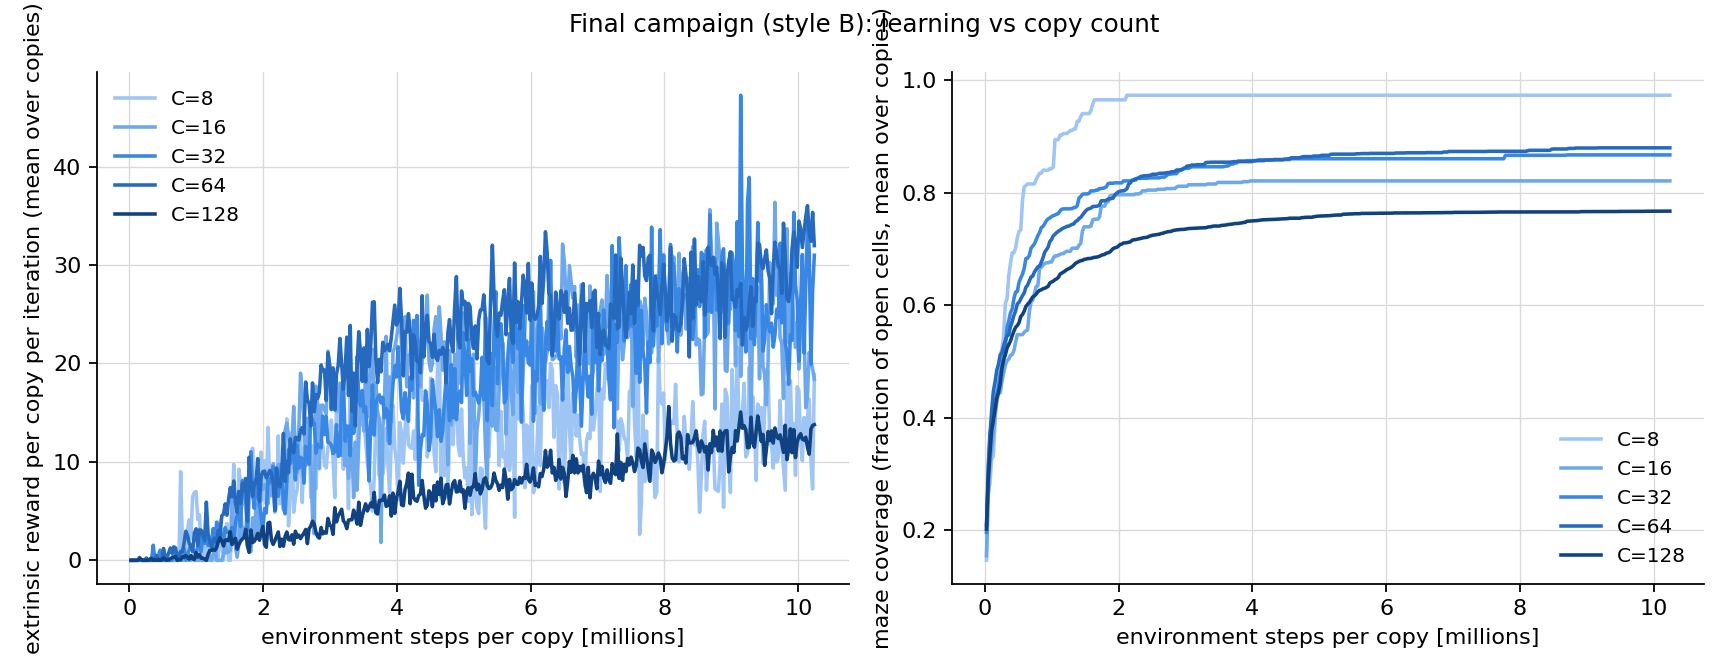
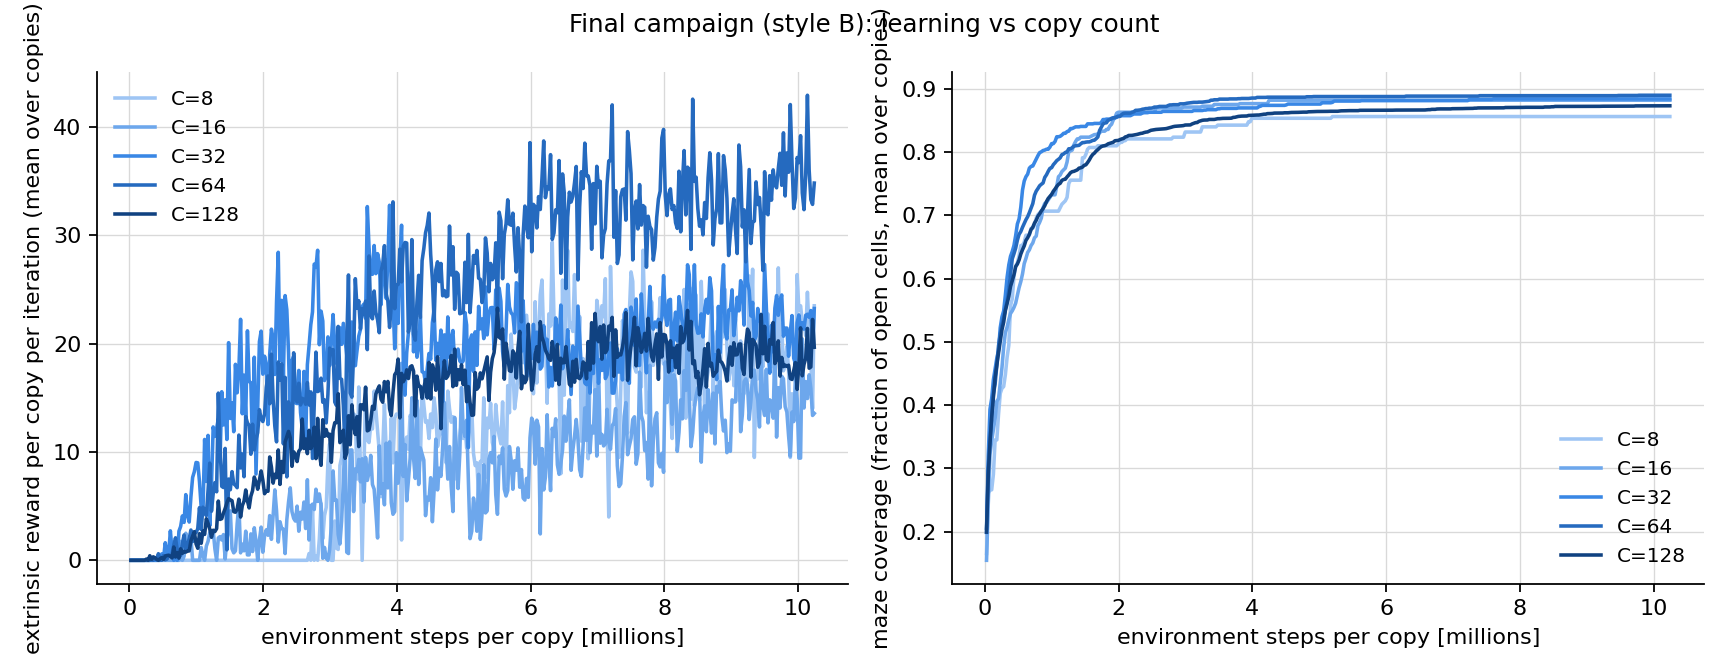
round 2 campaign + large-copy scaling + final unified report covering all three rounds
Round-2 campaign (both styles x C=8..128, 10.24M steps/copy): 8.19e6 env-steps/s at C=128
style A, 3.1x the round-1 campaign. Large-copy scaling re-measured: saturates at 7.8e6 from
~8192 copies, ceiling now 16384 (round 2 trades memory for speed; confirmed as real demand,
not fragmentation). Report reorganized around the three rounds with both campaigns, the
sweep, and the corrected cuda-env pairing.

Claude-Session: https://claude.ai/code/session_015j6YeWp1Vn9h1zKwtPG3mG

diff --git a/09_parallelization/report/2026-08-15-pointmaze-gpu-parallelization/code/make_report.py b/09_parallelization/report/2026-08-15-pointmaze-gpu-parallelization/code/make_report.py
@@ -276,10 +276,12 @@ cost the same as training those copies at one rate.
     return md
 
 
-def campaign_records():
-    """The final-campaign per-count JSONs, {(style, C): record}."""
+def campaign_records(round2=True):
+    """The final-campaign per-count JSONs, {(style, C): record}, for one round's campaign."""
+    pattern = "2026-*final_round2*/data/copies_*.json" if round2 else \
+              "2026-08-15-02-56_final*/data/copies_*.json"
     out = {}
-    for p in RUNS.glob("2026-*final*/data/copies_*.json"):
+    for p in RUNS.glob(pattern):
         r = json.loads(p.read_text())
         out[(r["style"], r["n_copies"])] = r
     return out
@@ -527,11 +529,21 @@ The task's two questions, answered by measurement (style B, T=128, N=4, final co
         else:
             b = tot = per = "—"
         md += f"| {c} | {a} | {b} | {tot} | {per} |\n"
-    md += """| 65536 | out of memory during graph build | — | — | — |
+    md += """
+**How many copies fit, and the trade the second round made.** Round one reached 32,768 copies
+and ran out of memory at 65,536; round two runs out at 32,768. That is not a regression to fix
+by accident — it is the price of the speed: hoisting the per-step work into wide passes, and
+caching the frozen RND target's features for the update phase, both hold more data at once
+(the cached features alone are 256 KB per copy). The ceiling moved from 32,768 copies to
+16,384 while every copy count up to there got about 1.8x faster. A run that needs the extra
+copies more than the speed can set `compile_post=False` and skip the hoist to get the round-one
+memory profile back. The ceiling is genuine demand rather than fragmentation: retrying 32,768
+copies with `PYTORCH_CUDA_ALLOC_CONF=expandable_segments:True` reduced the failing allocation
+from 32 GiB to 8 GiB but still ran out.
 
-**Maximum copies that fit: 32,768** (95 GB H100, this configuration). Torch total
-throughput saturates near 5.6e6 env-steps/s from ~8,192 copies. The jax trainer saturates
-near 1.9e7 (style A) / 9.1e6 (style B) around C=2,048-4,096.
+Round-two total throughput saturates near 7.8e6 environment steps per second from about 8,192
+copies (round one: 5.6e6). The jax trainer saturates near 1.9e7 (style A) / 9.1e6 (style B)
+around 2,048-4,096 copies.
 
 ![copy scaling](figures/copy_scaling.png)
 """
@@ -667,11 +679,15 @@ def sec_campaign():
 
 20,000 iterations per configuration = 10.24M environment steps per copy; PointMaze Large,
 sparse goal, run-6 setup. Every copy is an independent seed with its own networks,
-environments, statistics, and optimizer.
+environments, statistics, and optimizer. The campaign was run twice — once on the round-1 code
+and again on the round-2 code — so the improvement is visible on the deliverable itself and not
+only on the benchmarks. The table reports the round-2 run, with the round-1 throughput beside
+it for comparison.
 
-| style | copies | wall time [s] | total env-steps/s | env-steps/s per copy | copies at goal, late* | copies at goal, ever* | coverage mean | peak VRAM [MB] |
-|---|---|---|---|---|---|---|---|---|
+| style | copies | wall time [s] | total env-steps/s | round-1 rate | env-steps/s per copy | copies at goal, late* | copies at goal, ever* | coverage mean | peak VRAM [MB] |
+|---|---|---|---|---|---|---|---|---|---|
 """
+    r1recs = campaign_records(round2=False)
     for (style, c) in sorted(recs, key=lambda k: (k[0], k[1])):
         r = recs[(style, c)]
         hist = r["history"]
@@ -681,11 +697,22 @@ environments, statistics, and optimizer.
         solved_late = count(late) if late else 0
         solved_ever = count(hist) if hist else 0
         cov = sum(r["final_coverage_per_copy"]) / c
+        r1 = r1recs.get((style, c))
         md += (f"| {style} | {c} | {r['train_seconds']:.0f} | "
-               f"{sci(r['env_steps_per_sec'])} | {sci(r['env_steps_per_sec'] / c)} | "
+               f"{sci(r['env_steps_per_sec'])} | "
+               f"{sci(r1['env_steps_per_sec']) if r1 else '—'} | "
+               f"{sci(r['env_steps_per_sec'] / c)} | "
                f"{solved_late}/{c} | {solved_ever}/{c} | {cov:.3f} | "
                f"{r['peak_vram_mb']:.0f} |\n")
     md += """
+The round-2 campaign also shows more copies reaching the goal and slightly higher coverage than
+the round-1 one. That is NOT an effect of the optimization: the algorithm is unchanged and every
+round-2 change was verified to compute the same function to within float32 rounding. What those
+tiny differences do is send the runs down different trajectories, and on a sparse-goal task the
+per-copy outcome is close to all-or-nothing, so the aggregate moves by more than one might
+expect. Treat the two campaigns as two samples of the same procedure, and read the throughput
+columns — not the goal columns — as the round's result.
+
 *Both goal columns count copies that scored a positive extrinsic reward in a SAMPLED
 iteration: "late" over the final 10% of samples, "ever" over all of them. Progress is sampled
 every 50 iterations (400 samples of 20,000), so a copy that reached the goal only in an

diff --git a/09_parallelization/report/2026-08-15-pointmaze-gpu-parallelization/report.md b/09_parallelization/report/2026-08-15-pointmaze-gpu-parallelization/report.md
@@ -141,11 +141,21 @@ The task's two questions, answered by measurement (style B, T=128, N=4, final co
 | 8192 | 761.6 | — | — | — |
 | 16384 | 1499.6 | — | — | — |
 | 32768 | 3009.6 | — | — | — |
-| 65536 | out of memory during graph build | — | — | — |
 
-**Maximum copies that fit: 32,768** (95 GB H100, this configuration). Torch total
-throughput saturates near 5.6e6 env-steps/s from ~8,192 copies. The jax trainer saturates
-near 1.9e7 (style A) / 9.1e6 (style B) around C=2,048-4,096.
+**How many copies fit, and the trade the second round made.** Round one reached 32,768 copies
+and ran out of memory at 65,536; round two runs out at 32,768. That is not a regression to fix
+by accident — it is the price of the speed: hoisting the per-step work into wide passes, and
+caching the frozen RND target's features for the update phase, both hold more data at once
+(the cached features alone are 256 KB per copy). The ceiling moved from 32,768 copies to
+16,384 while every copy count up to there got about 1.8x faster. A run that needs the extra
+copies more than the speed can set `compile_post=False` and skip the hoist to get the round-one
+memory profile back. The ceiling is genuine demand rather than fragmentation: retrying 32,768
+copies with `PYTORCH_CUDA_ALLOC_CONF=expandable_segments:True` reduced the failing allocation
+from 32 GiB to 8 GiB but still ran out.
+
+Round-two total throughput saturates near 7.8e6 environment steps per second from about 8,192
+copies (round one: 5.6e6). The jax trainer saturates near 1.9e7 (style A) / 9.1e6 (style B)
+around 2,048-4,096 copies.
 
 ![copy scaling](figures/copy_scaling.png)
 
@@ -213,11 +223,11 @@ measured in the campaign itself):
 
 | copies C | before, style B | after, style B | after, style A |
 |---|---|---|---|
-| 8 | 5.27e3 | 1.55e5 | 2.22e5 |
-| 16 | 1.05e4 | 2.97e5 | 4.27e5 |
-| 32 | 2.11e4 | 5.74e5 | 8.42e5 |
-| 64 | 4.22e4 | 1.07e6 | 1.59e6 |
-| 128 | 8.43e4 | 1.79e6 | 2.68e6 |
+| 8 | 5.27e3 | 2.94e5 | 7.19e5 |
+| 16 | 1.05e4 | 5.50e5 | 1.29e6 |
+| 32 | 2.11e4 | 1.04e6 | 2.58e6 |
+| 64 | 4.22e4 | 1.89e6 | 4.72e6 |
+| 128 | 8.43e4 | 3.20e6 | 8.19e6 |
 
 (The before column uses the measured eager iteration time of 777 ms, which is flat across
 copy counts.) Phase split of one iteration, before vs after (C=128, style B; the "after"
@@ -248,20 +258,31 @@ while every change was verified to compute the same thing.
 
 20,000 iterations per configuration = 10.24M environment steps per copy; PointMaze Large,
 sparse goal, run-6 setup. Every copy is an independent seed with its own networks,
-environments, statistics, and optimizer.
+environments, statistics, and optimizer. The campaign was run twice — once on the round-1 code
+and again on the round-2 code — so the improvement is visible on the deliverable itself and not
+only on the benchmarks. The table reports the round-2 run, with the round-1 throughput beside
+it for comparison.
 
-| style | copies | wall time [s] | total env-steps/s | env-steps/s per copy | copies at goal, late* | copies at goal, ever* | coverage mean | peak VRAM [MB] |
-|---|---|---|---|---|---|---|---|---|
-| epoch_minibatch | 8 | 529 | 1.55e5 | 1.94e4 | 2/8 | 6/8 | 0.973 | 146 |
-| epoch_minibatch | 16 | 552 | 2.97e5 | 1.86e4 | 4/16 | 6/16 | 0.821 | 163 |
-| epoch_minibatch | 32 | 571 | 5.74e5 | 1.79e4 | 11/32 | 17/32 | 0.867 | 198 |
-| epoch_minibatch | 64 | 615 | 1.07e6 | 1.67e4 | 19/64 | 28/64 | 0.879 | 268 |
-| epoch_minibatch | 128 | 732 | 1.79e6 | 1.40e4 | 27/128 | 49/128 | 0.767 | 432 |
-| full_batch | 8 | 369 | 2.22e5 | 2.78e4 | 3/8 | 4/8 | 0.826 | 156 |
-| full_batch | 16 | 384 | 4.27e5 | 2.67e4 | 0/16 | 5/16 | 0.753 | 183 |
-| full_batch | 32 | 389 | 8.42e5 | 2.63e4 | 8/32 | 11/32 | 0.781 | 238 |
-| full_batch | 64 | 412 | 1.59e6 | 2.49e4 | 9/64 | 18/64 | 0.748 | 348 |
-| full_batch | 128 | 489 | 2.68e6 | 2.09e4 | 12/128 | 38/128 | 0.746 | 546 |
+| style | copies | wall time [s] | total env-steps/s | round-1 rate | env-steps/s per copy | copies at goal, late* | copies at goal, ever* | coverage mean | peak VRAM [MB] |
+|---|---|---|---|---|---|---|---|---|---|
+| epoch_minibatch | 8 | 278 | 2.94e5 | 1.55e5 | 3.68e4 | 2/8 | 3/8 | 0.856 | 146 |
+| epoch_minibatch | 16 | 298 | 5.50e5 | 2.97e5 | 3.43e4 | 5/16 | 9/16 | 0.882 | 163 |
+| epoch_minibatch | 32 | 315 | 1.04e6 | 5.74e5 | 3.26e4 | 12/32 | 18/32 | 0.884 | 198 |
+| epoch_minibatch | 64 | 347 | 1.89e6 | 1.07e6 | 2.95e4 | 28/64 | 38/64 | 0.890 | 295 |
+| epoch_minibatch | 128 | 409 | 3.20e6 | 1.79e6 | 2.50e4 | 41/128 | 68/128 | 0.873 | 494 |
+| full_batch | 8 | 114 | 7.19e5 | 2.22e5 | 8.98e4 | 3/8 | 5/8 | 0.818 | 156 |
+| full_batch | 16 | 127 | 1.29e6 | 4.27e5 | 8.05e4 | 3/16 | 6/16 | 0.830 | 183 |
+| full_batch | 32 | 127 | 2.58e6 | 8.42e5 | 8.07e4 | 9/32 | 13/32 | 0.808 | 238 |
+| full_batch | 64 | 139 | 4.72e6 | 1.59e6 | 7.37e4 | 13/64 | 19/64 | 0.745 | 348 |
+| full_batch | 128 | 160 | 8.19e6 | 2.68e6 | 6.40e4 | 25/128 | 47/128 | 0.796 | 546 |
+
+The round-2 campaign also shows more copies reaching the goal and slightly higher coverage than
+the round-1 one. That is NOT an effect of the optimization: the algorithm is unchanged and every
+round-2 change was verified to compute the same function to within float32 rounding. What those
+tiny differences do is send the runs down different trajectories, and on a sparse-goal task the
+per-copy outcome is close to all-or-nothing, so the aggregate moves by more than one might
+expect. Treat the two campaigns as two samples of the same procedure, and read the throughput
+columns — not the goal columns — as the round's result.
 
 *Both goal columns count copies that scored a positive extrinsic reward in a SAMPLED
 iteration: "late" over the final 10% of samples, "ever" over all of them. Progress is sampled

diff --git a/09_parallelization/PROGRESS.md b/09_parallelization/PROGRESS.md
@@ -39,6 +39,18 @@ phase advances; per-subtask experiment logs live in each subtask's `progress_and
       `report/2026-08-15-pointmaze-gpu-parallelization/` (report.md + figures, all from
       result JSONs via code/make_report.py)
 
+## Rounds
+
+- Round 1 (2026-08-15, early): build all three modules; 777 -> 36.6 ms per iteration at 128
+  copies; first campaign; first report.
+- Round 2 (2026-08-15, afternoon): improve the finished system under a paired measurement
+  protocol. 36.8 -> 20.2 ms (style B) and 24.5 -> 8.1 ms (style A) at 128 copies; jax +32/+47%;
+  cuda env +14% and a real stream defect fixed; campaign re-run; on-policy-only question
+  answered (no effect).
+- Round 3 (2026-08-15, afternoon): learning-rate sweep across copy groups, +1.0% against a
+  uniform run and 1.84x faster than running the groups separately; demonstration run recovers
+  the expected best rate.
+
 ## State notes (newest first)
 
 - 2026-08-15 ~04:45 — TASK COMPLETE. All five phases checked off. Unified report:
